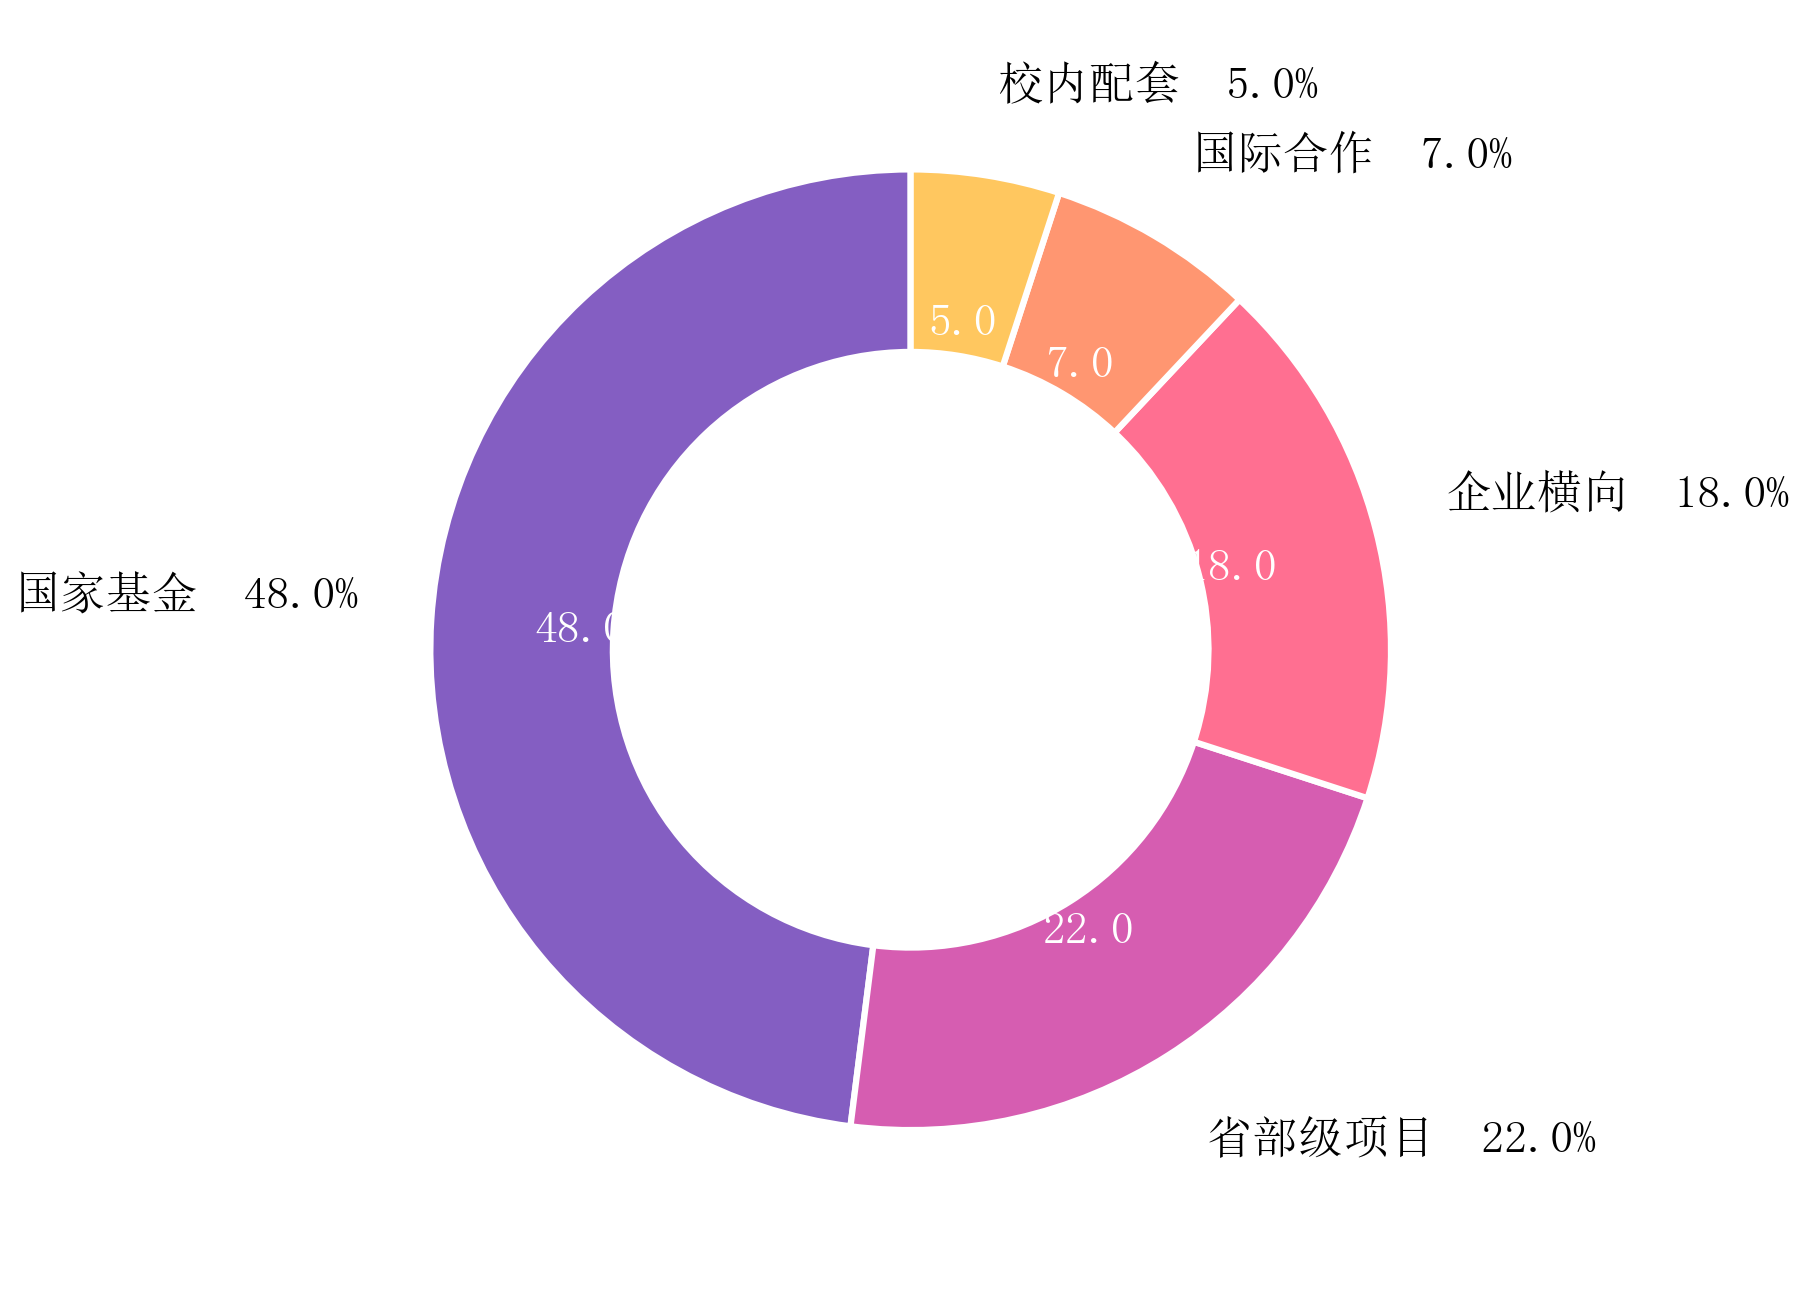
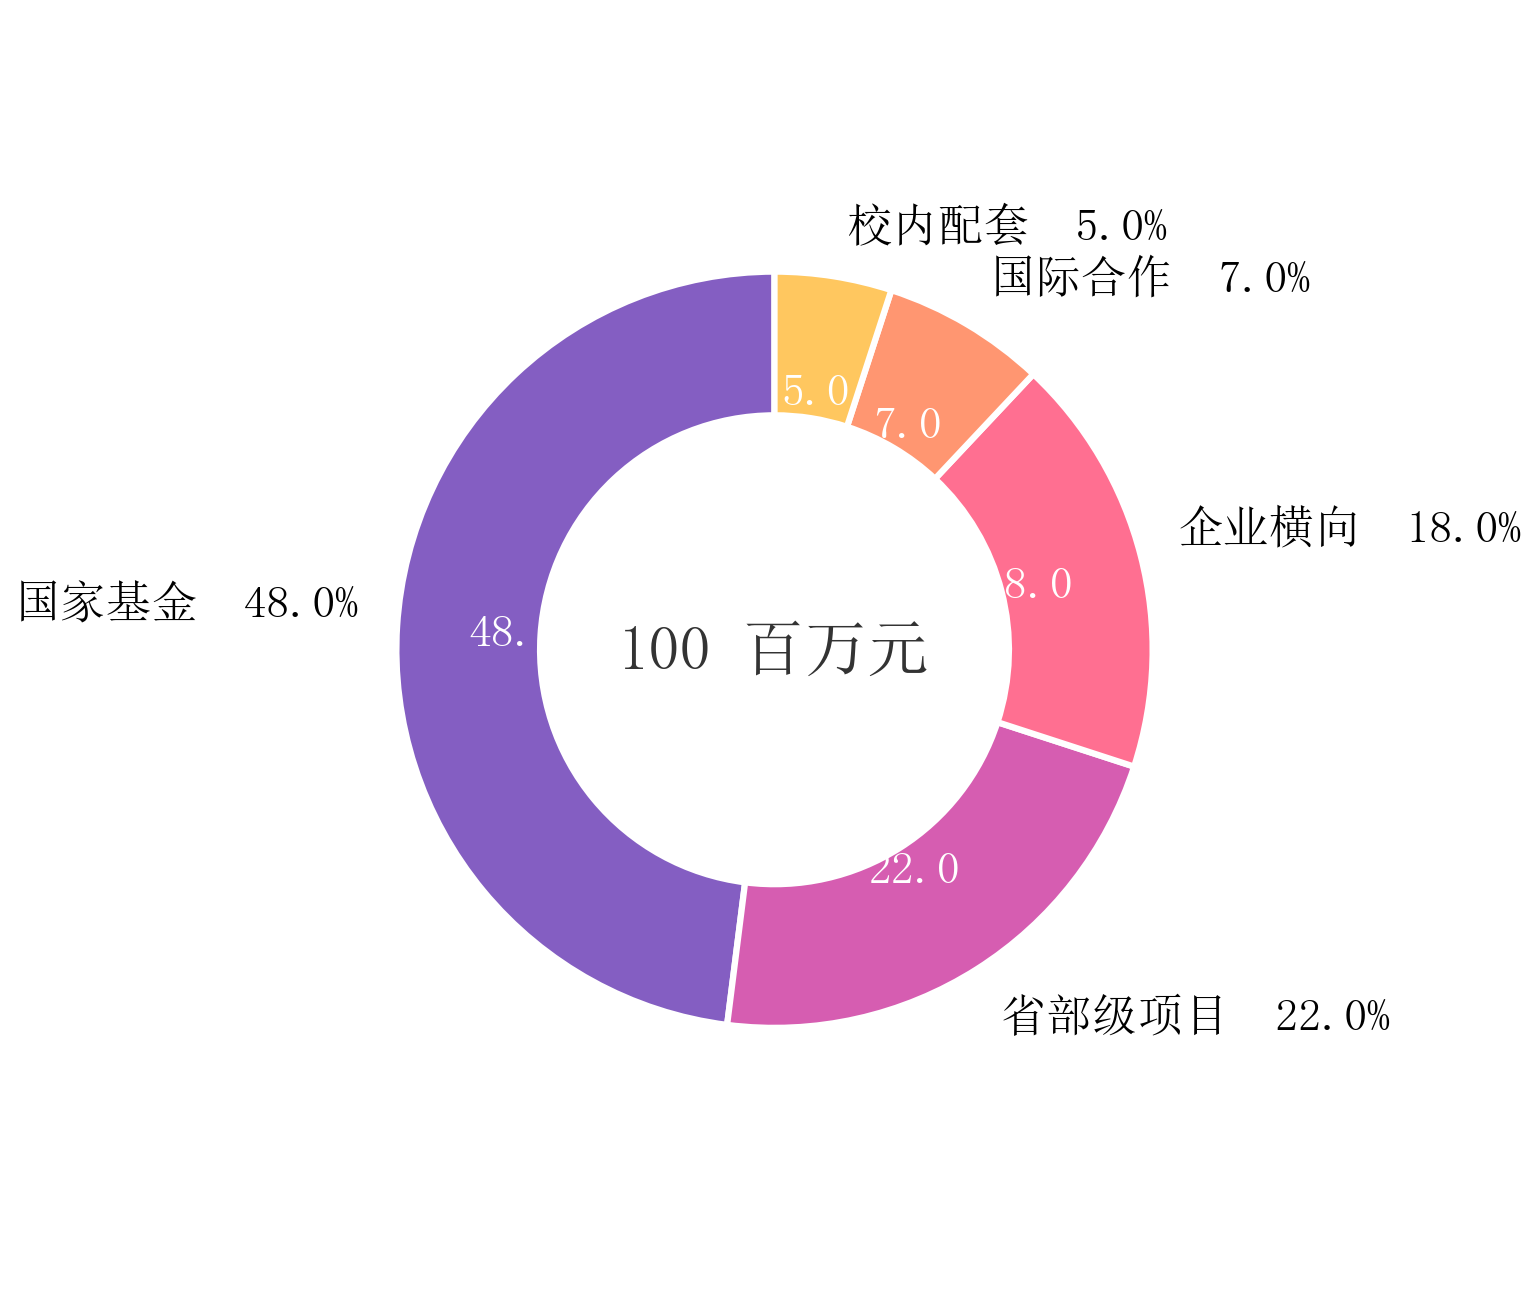
fix: donut标签溢出修复(label_radius+画布余量) + 中心总文本 + 小扇区数值保护

diff --git a/sciplot/_plots/advanced.py b/sciplot/_plots/advanced.py
@@ -1680,7 +1680,8 @@ def plot_donut(
     show_percent: bool = True,
     percent_fmt: str = ".1f",
     start_angle: float = 90.0,
-    label_radius: float = 1.15,
+    label_radius: float = 1.08,
+    center_text: Optional[str] = None,
     venue: Optional[str] = None,
     palette: Optional[str] = None,
     lang: Optional[str] = None,
@@ -1700,10 +1701,12 @@ def plot_donut(
         show_percent : 是否在类别标签后附百分比
         start_angle  : 起始角度（度，默认 90 从正上方开始）
         label_radius : 类别标签的半径位置
+        center_text  : 环中心显示的文字（如总和）；None 不显示
 
     示例:
         >>> fig, ax = sp.plot_donut(
         ...     ["A", "B", "C"], [55, 30, 15],
+        ...     center_text="100",
         ... )
     """
     cat_arr = list(categories)
@@ -1748,10 +1751,13 @@ def plot_donut(
     for w in wedges:
         w.set_zorder(2)
 
-    # 数值放环内中部
+    # 数值放环内中部（扇区角度过小时跳过，避免文字溢出扇区）
     if show_values:
         fs = max(7, plt.rcParams.get("font.size", 9) - 1)
         for w, v in zip(wedges, val_arr):
+            arc_deg = abs(w.theta2 - w.theta1)
+            if arc_deg < 22.0:
+                continue  # 过窄扇区不写数值，避免溢出
             ang = np.deg2rad((w.theta1 + w.theta2) / 2)
             r = 1.0 - hole_ratio / 2
             ax.text(r * np.cos(ang), r * np.sin(ang), f"{v:{fmt}}",
@@ -1764,7 +1770,14 @@ def plot_donut(
         ang = np.deg2rad((w.theta1 + w.theta2) / 2)
         x = label_radius * np.cos(ang)
         y = label_radius * np.sin(ang)
-        ha = "left" if x >= 0 else "right"
+        # 标签从环边向外延伸：右侧 ha=left，左侧 ha=right，
+        # 并预留足够的画布余量避免文字被裁剪
+        if np.cos(ang) >= 0:
+            ha = "left"
+            x = x + 0.02
+        else:
+            ha = "right"
+            x = x - 0.02
         va = "bottom" if y >= 0 else "top"
         if show_percent:
             pct = v / total * 100.0
@@ -1773,9 +1786,16 @@ def plot_donut(
             label_txt = cat
         ax.text(x, y, label_txt, ha=ha, va=va, fontsize=fs_label, zorder=5)
 
+    # 环中心文字（如总和/主指标）
+    if center_text is not None:
+        fs_center = max(11, plt.rcParams.get("font.size", 9) + 3)
+        ax.text(0, 0, center_text, ha="center", va="center",
+                fontsize=fs_center, fontweight="bold", color="#333333", zorder=6)
+
     ax.set_aspect("equal")
-    ax.set_xlim(-label_radius * 1.15, label_radius * 1.15)
-    ax.set_ylim(-label_radius * 1.15, label_radius * 1.15)
+    margin = label_radius + 0.6  # 为外圈标签预留文字空间
+    ax.set_xlim(-margin, margin)
+    ax.set_ylim(-margin, margin)
     ax.set_xticks([])
     ax.set_yticks([])
     for spine in ax.spines.values():

diff --git a/showcase/33_donut.py b/showcase/33_donut.py
@@ -21,6 +21,7 @@ fig, ax = sp.plot_donut(
     hole_ratio=0.62,
     fmt=".1f",
     show_percent=True,
+    center_text="100 百万元",
 )
 
 # ── 保存 ──────────────────────────────────────────────────────
